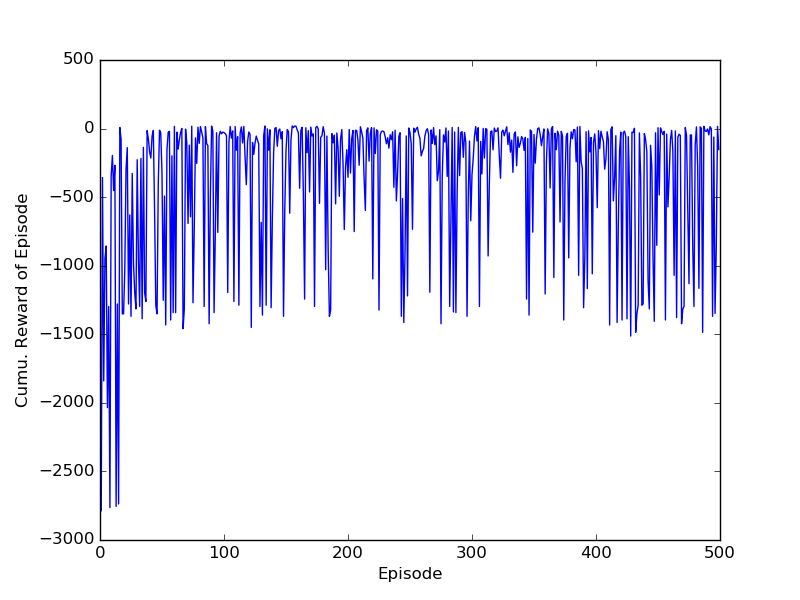
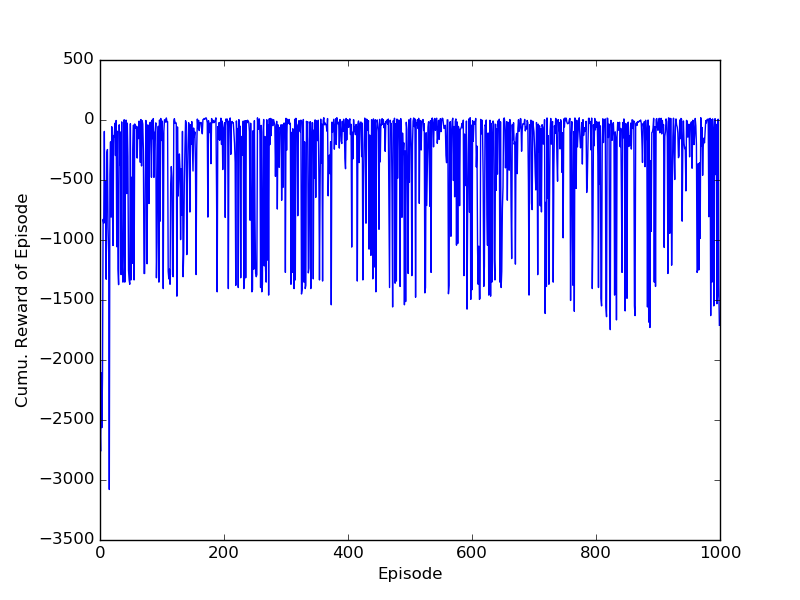
value9

diff --git a/_posts/2016-08-21-Learning_Value_Functions.md b/_posts/2016-08-21-Learning_Value_Functions.md
@@ -147,7 +147,10 @@ Put simply, the easiest way to guarantee convergence: use a simple learning rate
 
 
 
-## A simple Python Implementation ##
+## Python Implementations ##
+
+
+### Q-learning ###
 
 For a discrete problem, the following python implementation of Q-learning works well enough:
 
@@ -211,7 +214,9 @@ This code resulted in the following performance:
 ![Q-learning]({{ site.baseurl }}/images/qlearning.png)
 
 
-And here also a simple implementation of SARSA:
+### SARSA ###
+
+Also, a simple implementation of SARSA:
 
 ```python
 import gym
@@ -271,7 +276,149 @@ plt.show()
 
 And the resulting image. Notice that the performance does not seem to converge to the optimal, this is because SARSA is on-policy and the behaviour-policy remains epsilon-greedy with $$\epsilon = 0.1$$ and thus will do a random (bad) action roughly 10% of the time.
 
-![Q-learning]({{ site.baseurl }}/images/sarsa.png)
+![SARSA]({{ site.baseurl }}/images/sarsa.png)
+
+
+
+### Expected SARSA ###
+
+```python
+import gym
+env = gym.make("Taxi-v1")
+
+
+# Q-function
+# initial_Q = 0.
+from collections import defaultdict
+Q = defaultdict(lambda : 0.) # Q-function
+n = defaultdict(lambda : 1.) # number of visits
+
+
+# Extra
+actionspace = range(env.action_space.n)
+greedy_action = lambda s : max(actionspace, key=lambda a : Q[(s,a)])
+import random
+epsilon = 0.1
+gamma = 0.9
+
+
+# Simulation
+episodescores = []
+for _ in range(1000):
+    state = env.reset()
+    currentscore = 0.
+    for t in range(1000):
+        # Epsilon-Greedy
+        if epsilon > random.random() :
+            action = env.action_space.sample() # your agent here (this takes random actions)
+        else :
+            action = greedy_action(state)
+
+        # SARSA
+        if t > 0 : # Because previous state and action do not yet exist at t=0
+            Vpi = sum([ Q[(state, a)] * ((action==a)*(1.-epsilon) + epsilon*(1./len(actionspace))) for a in actionspace ])
+            Q[(prevstate,prevaction)] = Q[(prevstate,prevaction)] + 1./n[(prevstate,prevaction)] * ( reward + gamma * Vpi - Q[(prevstate,prevaction)] )
+
+        nextstate, reward, done, info = env.step(action)
+        currentscore += reward
+
+        if done :
+            Q[(prevstate,prevaction)] = Q[(prevstate,prevaction)] + 1./n[(state,action)] * ( reward - Q[(prevstate,prevaction)] )
+            break
+
+        prevstate, state, prevaction = state, nextstate, action
+
+    episodescores.append(currentscore)
+
+
+import matplotlib.pyplot as plt
+import numpy as np
+plt.plot(episodescores)
+plt.xlabel('Episode')
+plt.ylabel('Cumu. Reward of Episode')
+plt.show()
+```
+
+And its performance:
+![Expected SARSA]({{ site.baseurl }}/images/expectedsarsa.png)
+
+
+### Double Q-learning
+
+Code:
+
+```python
+import gym
+env = gym.make("Taxi-v1")
+
+
+# Q-function
+# initial_Q = 0.
+from collections import defaultdict
+Q = defaultdict(lambda : 0.) # Q-function
+n = defaultdict(lambda : 1.) # number of visits
+
+
+# Extra
+actionspace = range(env.action_space.n)
+greedy_action_i = lambda i, s : max(actionspace, key=lambda a : Q[(i,s,a)])
+max_q = lambda i, sp : max([Q[(i,sp,a)] for a in actionspace])
+greedy_action = lambda s : max(actionspace, key=lambda a : (Q[(0,s,a)]+Q[(1,s,a)])/2.)
+import random
+epsilon = 0.1
+gamma = 0.9
+
+
+# Simulation
+episodescores = []
+for _ in range(1000):
+    nextstate = env.reset()
+    currentscore = 0.
+    for _ in range(1000):
+        state = nextstate
+
+        # Epsilon-Greedy
+        if epsilon > random.random() :
+            action = env.action_space.sample() # your agent here (this takes random actions)
+        else :
+            action = greedy_action(state)
+
+        nextstate, reward, done, info = env.step(action)
+        currentscore += reward
+
+        # Double Q-learning
+        i = random.choice([0,1])
+        o = (i + 1) % 2
+        if done :
+            Q[(i,state,action)] = Q[(i,state,action)] + 1./n[(i,state,action)] * ( reward - Q[(i,state,action)] )
+            break
+        else :
+            greedy_i = greedy_action_i(i,nextstate)
+            Q[(i,state,action)] = Q[(i,state,action)] + 1./n[(i,state,action)] * ( reward + gamma * Q[(o,nextstate,greedy_i)] - Q[(i,state,action)] )
+
+    episodescores.append(currentscore)
+
+
+import matplotlib.pyplot as plt
+plt.plot(episodescores)
+plt.xlabel('Episode')
+plt.ylabel('Cumu. Reward of Episode')
+plt.show()
+```
+
+And the performance:
+![Double Q-learning]({{ site.baseurl }}/images/doubleqlearning.png)
+
+
+### Afterword ###
+
+We have discussed value-functions and a few simple temporal-difference learning algorithms, and demonstrated their implementation and some performance.
+Although SARSA and Expected SARSA look like they perform poorly, they certainly are not always worse than Q-learning. It just so happens that the Taxi environment works quite well with the chosen epsilon-greedy action-selection. In other environments, SARSA and Expected SARSA may perform much better than Q-learning, namely environments were a single mistake inflicts a devastating reward feedback. For example when walking alongside a cliff, the on-policy approach will then take into account the chance that one sometimes randomly wanders off the cliff if it walks too close along the cliff and hence induces a safer policy [Sutton and Barto, 1998].
+
+Next topic is on Advanced Value Functions.
+
+
+
 
 
 
